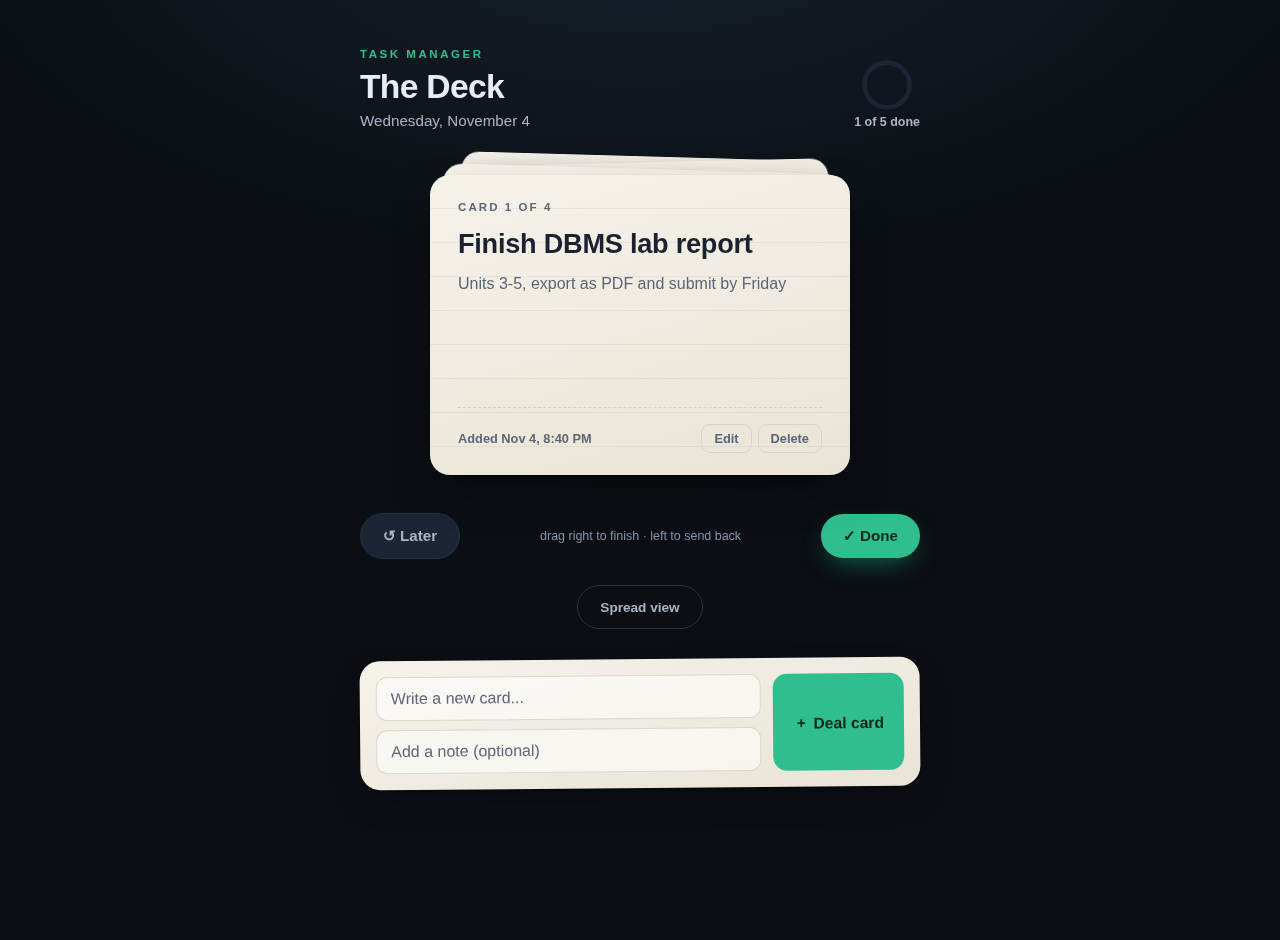
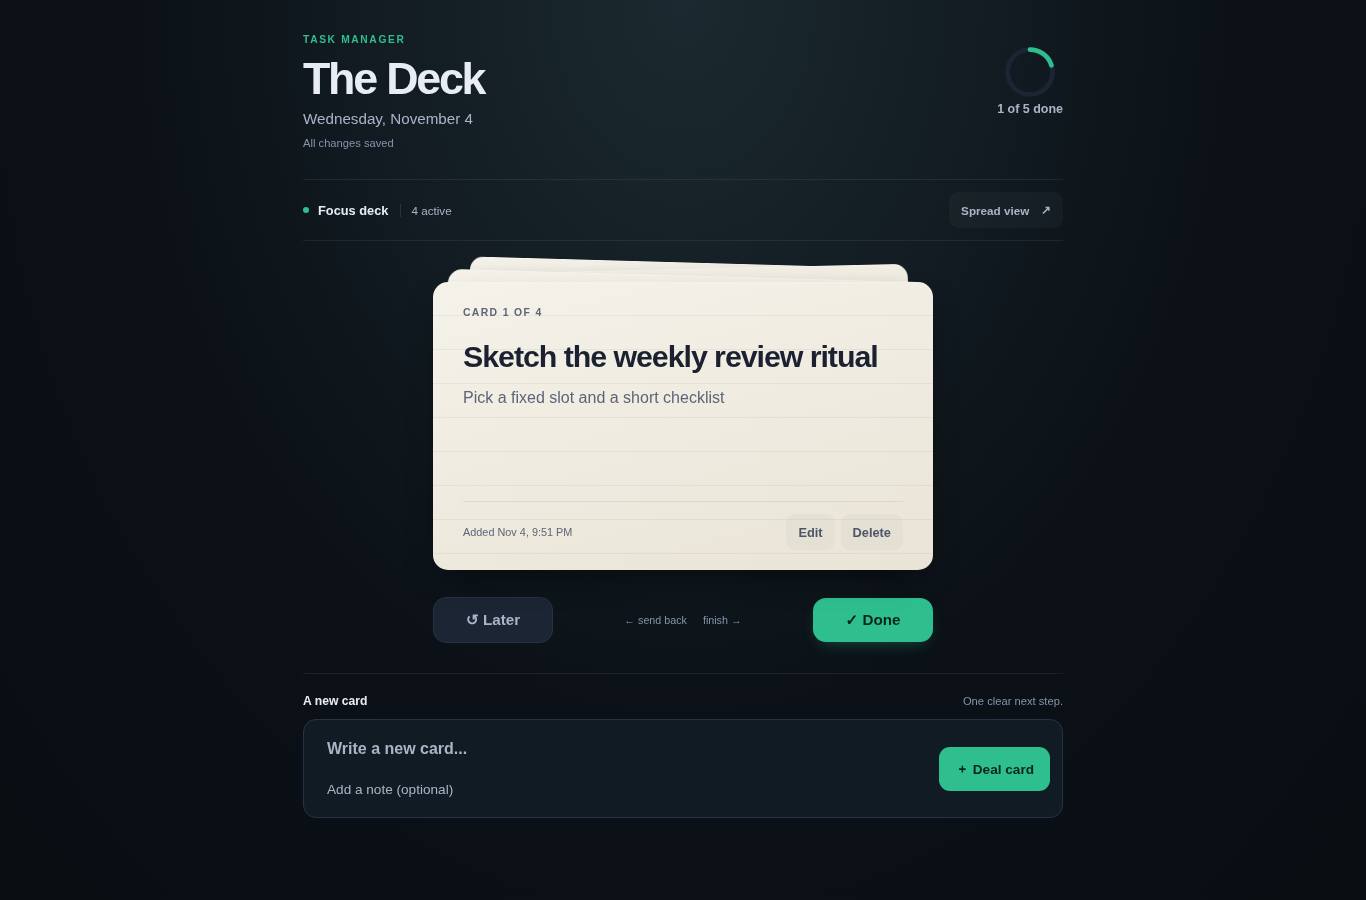
Lay the spread out as paper cards with staggered deal-in

diff --git a/public/styles.css b/public/styles.css
@@ -467,3 +467,66 @@ body { overflow-x: hidden; }
  .card { height: 278px; }
  .add-form { margin-top: 16px; padding-top: 14px; }
 }
+
+/* Loop 3: the spread is a real spread - paper cards laid out on the desk. */
+.task-list { display: grid; grid-template-columns: repeat(auto-fill, minmax(250px, 1fr)); gap: 16px; }
+.task {
+  position: relative; display: flex; flex-direction: row; align-items: flex-start; flex-wrap: nowrap;
+  background:
+    repeating-linear-gradient(to bottom, transparent 0 27px, rgba(27,33,48,0.05) 27px 28px),
+    linear-gradient(165deg, var(--paper) 0%, var(--paper-edge) 100%);
+  color: var(--ink); border: none; border-radius: 13px; padding: 15px 16px 12px;
+  box-shadow: 0 1px 2px rgba(0,0,0,0.3), 0 10px 24px -12px rgba(0,0,0,0.5);
+  transition: transform 0.35s var(--springy), box-shadow 0.3s ease, opacity 0.3s ease;
+}
+.task:nth-child(odd) { transform: rotate(-0.5deg); }
+.task:nth-child(even) { transform: rotate(0.45deg); }
+.task:hover { transform: rotate(0deg) translateY(-3px); box-shadow: 0 2px 3px rgba(0,0,0,0.3), 0 18px 34px -14px rgba(0,0,0,0.6); z-index: 1; }
+.task.deal-in { animation: spread-in 0.5s var(--settle) backwards; animation-delay: calc(var(--i, 0) * 45ms); }
+@keyframes spread-in { from { opacity: 0; transform: translateY(18px) rotate(2.5deg) scale(0.96); } }
+
+.task-check { margin-top: 2px; border-color: #b3ab97; }
+.task-check:hover { border-color: var(--ink-soft); }
+.task.completed { opacity: 0.66; border-style: none; transform: rotate(1.1deg); }
+.task.completed:hover { opacity: 0.85; }
+.task.completed .task-title { text-decoration: none; color: var(--ink-faint); }
+.task.completed .task-desc { color: var(--ink-faint); }
+
+.task-body { flex: 1; min-width: 0; }
+.task-title { color: var(--ink); font-size: 1rem; font-weight: 700; line-height: 1.3; }
+.task-desc { color: var(--ink-soft); font-size: 0.86rem; }
+.task-foot {
+  margin-top: 12px; padding-top: 9px; border-top: 1px dashed #d6d0c0;
+  display: flex; justify-content: space-between; align-items: center; gap: 8px;
+}
+.task-meta { color: var(--ink-faint); font-size: 0.7rem; font-weight: 500; margin-top: 0; line-height: 1.45; }
+.task-actions { gap: 6px; }
+.task-actions button {
+  background: rgba(27,33,48,0.05); border: none; color: #4d5668;
+  font-size: 0.76rem; font-weight: 700; padding: 6px 11px; border-radius: 8px; min-height: 32px;
+}
+.task-actions button:hover { background: rgba(27,33,48,0.11); color: var(--ink); transform: none; }
+.task-actions .delete-task.armed { color: var(--danger); background: rgba(229,72,77,0.12); border: none; }
+
+.spread-stamp {
+  position: absolute; top: 10px; right: 12px;
+  font-size: 0.6rem; font-weight: 900; letter-spacing: 0.14em; text-transform: uppercase;
+  color: var(--accent); border: 2px solid var(--accent); border-radius: 6px;
+  padding: 1px 6px; transform: rotate(9deg); opacity: 0.9; pointer-events: none;
+}
+
+/* edit form on paper */
+.task-edit input { background: rgba(255,255,255,0.6); border: 1.5px solid #d9d3c3; color: var(--ink); }
+.task-edit input:focus { outline: 2px solid var(--accent); }
+.task-edit .save-edit { background: var(--ink); color: var(--paper); }
+.task-edit .cancel-edit { background: transparent; border: 1.5px solid #d9d3c3; color: var(--ink-soft); }
+
+@media (max-width: 560px) {
+  .task-list { grid-template-columns: 1fr; gap: 13px; }
+  .task { padding: 13px 14px 10px; }
+  .task-actions { flex-basis: auto; justify-content: flex-end; margin-top: 0; padding-left: 0; }
+  .task-foot { margin-top: 10px; }
+}
+
+/* Stamp clearance: long titles on completed spread cards must not collide with the stamp. */
+.task.completed .task-title { padding-right: 58px; }

diff --git a/public/app.js b/public/app.js
@@ -11,6 +11,8 @@ const state = {
 
 const pendingTasks = new Map();
 let deckAnimating = false;
+let spreadDealIn = false;   // deal the spread in only when the view or filter changes
+let lastAddedId = null;      // a freshly dealt card animates on its own
 const reduceMotion = window.matchMedia('(prefers-reduced-motion: reduce)').matches;
 
 /* ---------- API ---------- */
@@ -365,10 +367,12 @@ function renderSpread() {
   list.innerHTML = '';
   $('#list-empty').hidden = filtered.length > 0;
 
-  filtered.forEach((task) => {
+  filtered.forEach((task, index) => {
     const li = document.createElement('li');
     li.className = 'task' + (task.completed ? ' completed' : '');
     li.dataset.id = task.id;
+    li.style.setProperty('--i', Math.min(index, 14));
+    if (spreadDealIn || task.id === lastAddedId) li.classList.add('deal-in');
     li.innerHTML = `
       <button type="button" class="task-check" aria-label="${task.completed ? 'Mark incomplete' : 'Mark complete'}" aria-pressed="${task.completed}">
         <svg viewBox="0 0 16 16"><path d="M2.5 8.5l3.5 3.5 7-8"/></svg>
@@ -376,15 +380,20 @@ function renderSpread() {
       <div class="task-body">
         <p class="task-title">${esc(task.title)}</p>
         ${task.description ? `<p class="task-desc">${esc(task.description)}</p>` : ''}
-        <p class="task-meta">Added ${formatDate(task.createdAt)}${task.updatedAt !== task.createdAt ? ` · edited ${formatDate(task.updatedAt)}` : ''}</p>
+        <div class="task-foot">
+          <p class="task-meta">Added ${formatDate(task.createdAt)}${task.updatedAt !== task.createdAt ? ` · edited ${formatDate(task.updatedAt)}` : ''}</p>
+          <div class="task-actions">
+            <button type="button" class="edit-task">Edit</button>
+            <button type="button" class="delete-task">Delete</button>
+          </div>
+        </div>
       </div>
-      <div class="task-actions">
-        <button type="button" class="edit-task">Edit</button>
-        <button type="button" class="delete-task">Delete</button>
-      </div>`;
+      ${task.completed ? '<span class="spread-stamp" aria-hidden="true">done</span>' : ''}`;
     if (pendingTasks.has(task.id)) li.querySelectorAll('button').forEach(b => b.disabled = true);
     list.appendChild(li);
   });
+  spreadDealIn = false;
+  lastAddedId = null;
 }
 
 $('#task-list').addEventListener('click', async (e) => {
@@ -456,7 +465,7 @@ $('#task-list').addEventListener('click', async (e) => {
 });
 
 document.querySelectorAll('.filter').forEach((b) =>
-  b.addEventListener('click', () => { state.filter = b.dataset.filter; renderSpread(); }));
+  b.addEventListener('click', () => { state.filter = b.dataset.filter; spreadDealIn = true; renderSpread(); }));
 
 /* ---------- view toggle ---------- */
 $('#view-toggle').addEventListener('click', () => {
@@ -468,6 +477,7 @@ function applyView() {
   const spread = state.view === 'spread';
   $('#deck-view').hidden = spread;
   $('#spread-view').hidden = !spread;
+  if (spread) { spreadDealIn = true; renderSpread(); }
   $('#view-toggle-label').textContent = spread ? 'Focus deck' : 'Spread view';
   $('#workspace-label').textContent = spread ? 'All your cards' : 'Focus deck';
   $('#view-toggle').setAttribute('aria-pressed', spread);
@@ -489,6 +499,7 @@ $('#add-form').addEventListener('submit', async (e) => {
   errEl.hidden = true;
   try {
     const task = await createTask(title, noteEl.value.trim());
+    lastAddedId = task.id;
     titleEl.value = ''; noteEl.value = '';
     showToast(`Dealt "${task.title}"`);
     await refresh();

diff --git a/README.md b/README.md
@@ -201,3 +201,15 @@ controls. During a horizontal drag, the underlying cards move forward in proport
 to the drag distance and settle back on cancellation. The view switch crossfades
 when the browser supports View Transitions, with an immediate fallback and reduced-
 motion support. Saves and card handoff keep the same non-blocking path.
+
+### The spread becomes a real spread
+
+The management view now lays tasks out as paper mini-cards on the desk instead of
+generic list rows, keeping the deck metaphor in both views. Cards alternate a
+slight desk-drop rotation and lift flat on hover. Completed cards dim, tilt and
+carry a small DONE stamp rather than a struck-through list row. Entering the
+spread or changing a filter deals the cards in with a staggered spring entrance;
+a card created while the spread is open deals itself in on its own. Editing and
+the two-step delete stay on each card, and the check circle still completes or
+reopens a task. All of it honors prefers-reduced-motion, and the API and deck
+handoff path are untouched.
